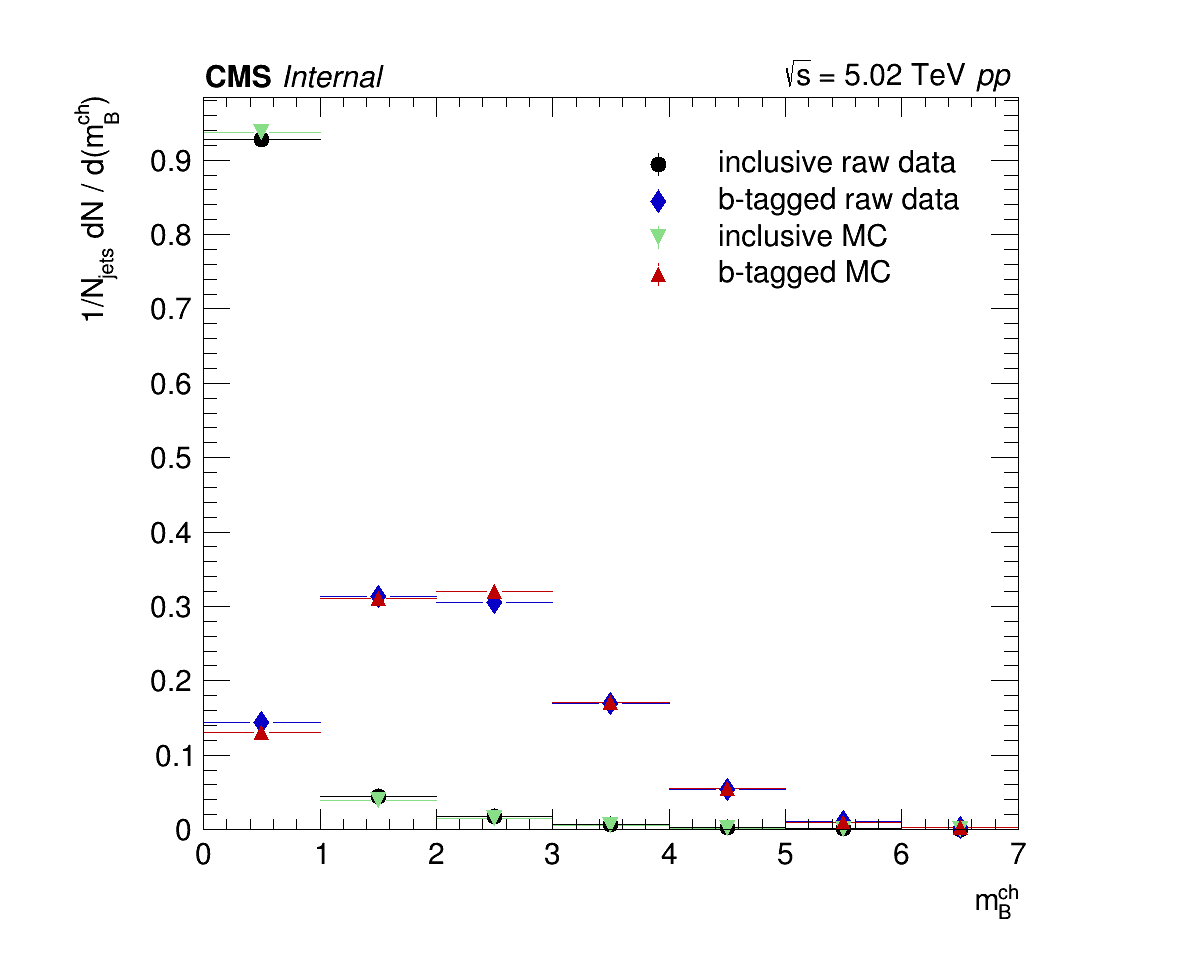
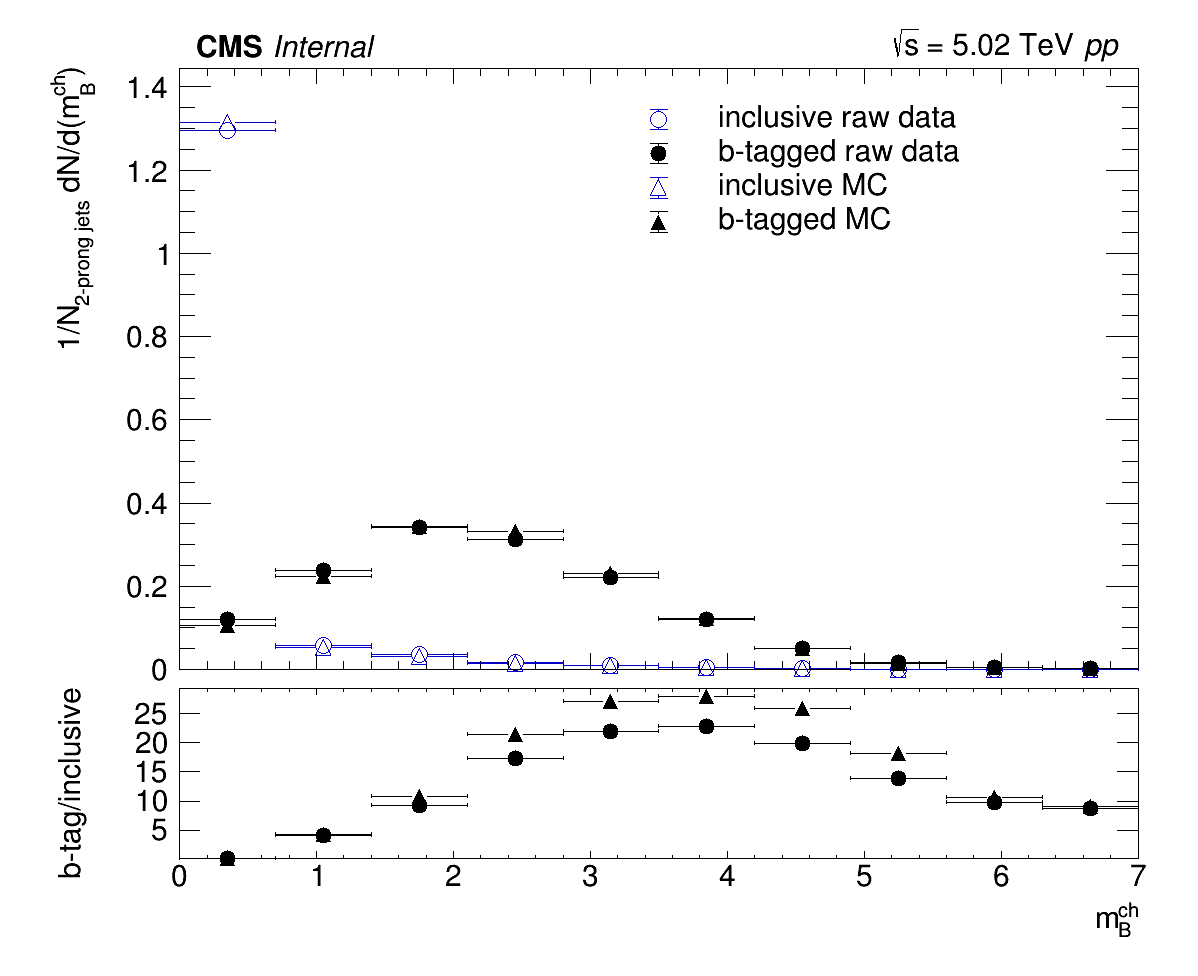
update raw data colors + normalization of rg

diff --git a/myMacros/C106X/template_fit/draw_raw_poster.C b/myMacros/C106X/template_fit/draw_raw_poster.C
@@ -85,6 +85,12 @@ void draw_raw_poster()
     TH1D *h_mc_incl_mb = (TH1D *) h_mc_incl->ProjectionY("h_mc_incl_mb", 1, nbins_rg, 1, nbins_pt);
     TH1D *h_mc_incl_pt = (TH1D *) h_mc_incl->ProjectionZ("h_mc_incl_pt", 1, nbins_rg, 1, nbins_mb);
 
+    // Get choose bin range in rg
+    for (auto h : {h_data_btag_rg, h_data_incl_rg,
+                   h_mc_btag_rg, h_mc_incl_rg}) {
+                    h->GetXaxis()->SetRange(2, 7);
+                   }
+
     // Normalize histograms
     for (auto h : {h_data_btag_rg, h_data_btag_mb, h_data_btag_pt,
                    h_data_incl_rg, h_data_incl_mb, h_data_incl_pt,
@@ -104,37 +110,43 @@ void draw_raw_poster()
     // Format + draw histograms 
     THStack *h_rg = new THStack("h_rg", "");
     h_rg->SetTitle("; ln(0.4/R_{g}); 1/N_{jets} dN / d(ln(0.4/R_{g}))");
-    h_rg->SetMaximum(0.5);
+    // h_rg->SetMaximum(0.5);
 
-    TLegend *leg_rg = new TLegend(0.5, 0.7, 0.95, 0.9); 
+    TLegend *leg_rg = new TLegend(0.5, 0.65, 0.95, 0.85); 
     leg_rg->SetFillStyle(0);
 
     THStack *h_mb = new THStack("h_mb", "");
     h_mb->SetTitle("; m_{B}^{ch}; 1/N_{jets} dN / d(m_{B}^{ch})");
 
-    TLegend *leg_mb = new TLegend(0.5, 0.7, 0.9, 0.85); 
+    TLegend *leg_mb = new TLegend(0.5, 0.65, 0.9, 0.85); 
     leg_mb->SetFillStyle(0);
 
     THStack *h_pt = new THStack("h_pt", "");
     h_pt->SetTitle("; p_{T}^{jet}; 1/N_{jets} dN / d(p_{T}^{jet})");
 
-    TLegend *leg_pt = new TLegend(0.5, 0.7, 0.9, 0.85); 
+    TLegend *leg_pt = new TLegend(0.5, 0.65, 0.9, 0.85); 
     leg_pt->SetFillStyle(0);
 
     TCanvas *c_rg = new TCanvas("c_rg", "", 1200, 1000);
+    TPad *pad1_rg = new TPad("pad1_rg", "", 0., 0., 1., 0.3);
+    TPad *pad2_rg = new TPad("pad2_rg", "", 0., 0.3, 1., 1.);
 
     TCanvas *c_mb = new TCanvas("c_mb", "", 1200, 1000);
+    TPad *pad1_mb = new TPad("pad1_mb", "", 0., 0., 1., 0.3);
+    TPad *pad2_mb = new TPad("pad2_mb", "", 0., 0.3, 1., 1.);
 
     TCanvas *c_pt = new TCanvas("c_pt", "", 1200, 1000);
+    TPad *pad1_pt = new TPad("pad1_pt", "", 0., 0., 1., 0.3);
+    TPad *pad2_pt = new TPad("pad2_pt", "", 0., 0.3, 1., 1.);
 
     // Make decorations
-    TPaveText *info_top_left = new TPaveText(-0.4, 0.505, 0.05, 0.525, "nb ndc");
+    TPaveText *info_top_left = new TPaveText(0., 1., 0.4, 1.1, "nb ndc");
     info_top_left->SetTextSize(font_size);
     info_top_left->SetFillStyle(0);
     info_top_left->SetLineWidth(0);
     info_top_left->AddText("#bf{CMS} #it{Internal}");
 
-    TPaveText *info_top_right = new TPaveText(1., 0.505, 1.6, 0.525, "nb ndc");
+    TPaveText *info_top_right = new TPaveText(1.3, 1., 1.8, 1.1, "nb ndc");
     info_top_right->SetTextSize(font_size);
     info_top_right->SetFillStyle(0);
     info_top_right->SetLineWidth(0);
@@ -157,45 +169,124 @@ void draw_raw_poster()
     std::vector<TH1D *> mc_btag_hists = {h_mc_btag_rg, h_mc_btag_mb, h_mc_btag_pt};
     std::vector<TH1D *> mc_incl_hists = {h_mc_incl_rg, h_mc_incl_mb, h_mc_incl_pt};
     std::vector<TCanvas *> canvases = {c_rg, c_mb, c_pt};
+    std::vector<TPad *> pads1 = {pad1_rg, pad1_mb, pad1_pt};
+    std::vector<TPad *> pads2 = {pad2_rg, pad2_mb, pad2_pt};
+    std::vector<TString> xtitles = {"ln(0.4/R_{g})", "m_{B}^{ch}", "p_{T}^{jet}"};
 
     for (size_t i = 0; i < stacks.size(); i++) {
-        data_incl_hists[i]->SetMarkerStyle(kFullCircle);
+        data_incl_hists[i]->SetMarkerStyle(kOpenCircle);
         data_incl_hists[i]->SetMarkerSize(2);
-        data_incl_hists[i]->SetMarkerColor(kBlack);
-        data_incl_hists[i]->SetLineColor(kBlack);
+        data_incl_hists[i]->SetMarkerColor(mykBlue);
+        data_incl_hists[i]->SetLineColor(mykBlue);
         stacks[i]->Add(data_incl_hists[i], "pe");
         legends[i]->AddEntry(data_incl_hists[i], "inclusive raw data", "pe");
 
-        data_btag_hists[i]->SetMarkerStyle(kFullDiamond);
-        data_btag_hists[i]->SetMarkerSize(3);
-        data_btag_hists[i]->SetMarkerColor(mykBlue);
-        data_btag_hists[i]->SetLineColor(mykBlue);
+        // data_btag_hists[i]->SetMarkerStyle(kFullDiamond);
+        // data_btag_hists[i]->SetMarkerSize(3);
+        // data_btag_hists[i]->SetMarkerColor(mykBlue);
+        // data_btag_hists[i]->SetLineColor(mykBlue);
+        data_btag_hists[i]->SetMarkerStyle(kFullCircle);
+        data_btag_hists[i]->SetMarkerSize(2);
+        data_btag_hists[i]->SetMarkerColor(kBlack);
+        data_btag_hists[i]->SetLineColor(kBlack);
         stacks[i]->Add(data_btag_hists[i], "pe");
         legends[i]->AddEntry(data_btag_hists[i], "b-tagged raw data", "pe");
 
-        mc_incl_hists[i]->SetMarkerStyle(kFullTriangleDown);
+        mc_incl_hists[i]->SetMarkerStyle(kOpenTriangleUp);
         mc_incl_hists[i]->SetMarkerSize(2);
-        mc_incl_hists[i]->SetMarkerColor(mykGreenLight);
-        mc_incl_hists[i]->SetLineColor(mykGreenLight);
+        mc_incl_hists[i]->SetMarkerColor(mykBlue);
+        mc_incl_hists[i]->SetLineColor(mykBlue);
         stacks[i]->Add(mc_incl_hists[i], "pe");
         legends[i]->AddEntry(mc_incl_hists[i], "inclusive MC", "pe");
 
         mc_btag_hists[i]->SetMarkerStyle(kFullTriangleUp);
         mc_btag_hists[i]->SetMarkerSize(2);
-        mc_btag_hists[i]->SetMarkerColor(mykRed);
-        mc_btag_hists[i]->SetLineColor(mykRed);
+        mc_btag_hists[i]->SetMarkerColor(kBlack);
+        mc_btag_hists[i]->SetLineColor(kBlack);
         stacks[i]->Add(mc_btag_hists[i], "pe");
         legends[i]->AddEntry(mc_btag_hists[i], "b-tagged MC", "pe");
 
+        // Find maximum for plotting 
+        double ymax = 0.;
+        for (auto h : {data_incl_hists[i], data_btag_hists[i],
+                       mc_incl_hists[i], mc_btag_hists[i]}) {
+            double hmax = h->GetMaximum();
+            if (hmax > ymax) ymax = hmax;
+        }
+
+        // RATIO PLOTS
+        THStack *h_ratio = new THStack("h_ratio", "");
+        std::string xtitle = data_btag_hists[i]->GetXaxis()->GetTitle();
+        h_ratio->SetTitle(Form("; %s; b-tagged / inclusive", xtitle.c_str()));
+
+        TH1D *h_data_ratio = (TH1D *) data_btag_hists[i]->Clone("h_data_ratio");
+        h_data_ratio->Divide(data_incl_hists[i]);
+        h_data_ratio->SetLineColor(data_btag_hists[i]->GetLineColor());
+        h_ratio->Add(h_data_ratio, "pe1");
+
+        TH1D *h_mc_ratio = (TH1D *) mc_btag_hists[i]->Clone("h_mc_ratio");
+        h_mc_ratio->Divide(mc_incl_hists[i]);
+        h_mc_ratio->SetLineColor(mc_btag_hists[i]->GetLineColor());
+        h_ratio->Add(h_mc_ratio, "pe1");
+
+        // Find maximum for plotting 
+        double ymin_ratio = 1.;
+        double ymax_ratio = 0.;
+        for (auto h : {h_data_ratio, h_mc_ratio}) {
+            double hmax = h->GetMaximum();
+            double hmin = h->GetMinimum();
+            if (hmax > ymax_ratio) ymax_ratio = hmax;
+            if (hmin < ymin_ratio) ymin_ratio = hmin;
+        }
+
+        pads2[i]->SetBottomMargin(0.02);
+        pads1[i]->SetTopMargin(0.02);
+        pads1[i]->SetBottomMargin(0.4);
+
+        pads1[i]->SetRightMargin(0.05);
+        pads2[i]->SetRightMargin(0.05);
+
+        pads1[i]->SetLeftMargin(0.15);
+        pads2[i]->SetLeftMargin(0.15);
         
-        canvases[i]->cd();
-        stacks[i]->Draw("nostack");
+        pads2[i]->cd();
+        // stacks[i]->Draw("nostack");
+        double xLabelSize = data_incl_hists[i]->GetXaxis()->GetLabelSize();
+        for (auto h : {data_incl_hists[i], data_btag_hists[i],
+                       mc_incl_hists[i], mc_btag_hists[i]}) {
+            h->Draw("pe1 same");
+
+            h->GetXaxis()->SetLabelSize(0.);
+            
+            TString ytitle = "1/N_{2-prong jets} dN/d(" + xtitles[i] + ")";
+            h->GetYaxis()->SetTitle(ytitle);
+            h->GetYaxis()->SetRangeUser(0., 1.1 * ymax);
+
+        }
         legends[i]->Draw();
         info_top_left->Draw();
         info_top_right->Draw();
-        // info_jets->Draw();
-        canvases[i]->Draw();   
+        
 
+        pads1[i]->cd();
+        for (auto h : {h_data_ratio, h_mc_ratio}) {
+            h->Draw("pe1 same");
+
+            h->GetXaxis()->SetLabelSize(xLabelSize);
+            h->GetXaxis()->SetTitle(xtitles[i]);
+            h->GetXaxis()->SetTitleOffset(4.);
+
+            h->GetYaxis()->SetNdivisions(6);
+            h->GetYaxis()->SetRangeUser(0.95 * ymin_ratio, 1.05 * ymax_ratio);
+            h->GetYaxis()->SetTitle("b-tag/inclusive");
+        }
+        // h_ratio->Draw("nostack");
+
+
+        canvases[i]->cd();
+        
+        pads2[i]->Draw();
+        pads1[i]->Draw();
         TString canvas_name = "./plots/raw_" + TString(canvases[i]->GetName()) + ".png";
         canvases[i]->Print(canvas_name);
     }

diff --git a/myMacros/C106X/template_fit/create_histograms_fast.C b/myMacros/C106X/template_fit/create_histograms_fast.C
@@ -3,8 +3,16 @@
 
 void create_histograms_fast()
 {
-    TString sample = "dijet";
-    TString label = "aggrTMVA_withHLT_v2_inclusive";
+    // TString sample = "dijet";
+    // TString label = "aggrTMVA_withHLT_v2";
+    // TString sample = "dijet";
+    // TString label = "aggrTMVA_withHLT_v2_inclusive";
+    // TString sample = "bjet";
+    // TString label = "aggrTMVA_withHLT";
+    // TString sample = "data";
+    // TString label = "aggrTMVA_v2";
+    TString sample = "data";
+    TString label = "aggrTMVA_v2_inclusive";
     TString fin_name = "/data_CMS/cms/kalipoliti/compact_trees/" + sample + "_" + label + "_tree_template_fit.root";   
     TString fout_name = "./histos/" + sample + "_" + label + "_histograms.root";
 
@@ -17,17 +25,17 @@ void create_histograms_fast()
     Double_t weight;
 
     // jet pt bins : no underflow or overflow
-    const Int_t z1bins = 3;
+    const Int_t z1bins = 4;
     Double_t z1min = 60.;
-    Double_t z1max = 120.; 
+    Double_t z1max = 140.; 
 
     // ln(0.4/rg) bins : 1st bin untagged (unphysical)
-    const Int_t x1bins = 5;
-    Double_t x1min = -0.4; // if untagged or kT < cut : ln(R/Rg) = -0.2
-    Double_t x1max = 1.6; 
+    const Int_t x1bins = 9;
+    Double_t x1min = -0.3; // if untagged or kT < cut : ln(R/Rg) = -0.2
+    Double_t x1max = 2.4; 
 
     // mBch bins : 
-    const Int_t y1bins = 7;
+    const Int_t y1bins = 10;
     Double_t y1min = 0.;
     Double_t y1max = 7.;
 
@@ -63,6 +71,18 @@ void create_histograms_fast()
 
         if (!mc) h_training->SetName(hist_name);
 
+        // sum of weights
+        double ntest = 0;
+        double ntrain = 0;
+
+        // sum of squared weights
+        double ntest2 = 0.; 
+        double ntrain2 = 0.;
+
+        // sum of entries 
+        Long64_t nent_test = 0;
+        Long64_t nent_train = 0;
+
         Long64_t nentries = tree->GetEntries();
         for (Long64_t ient = 0; ient < nentries; ient++) {
             tree->GetEntry(ient);
@@ -72,19 +92,53 @@ void create_histograms_fast()
             // Check for mb
             if (mb < 0. || mb > 7.) continue;
 
+            bool in_range = (jtpt >= z1min && jtpt < z1max) && (logrg >= x1min && logrg < x1max);
+
             if (mc) {
                 // weight = 1.; //debug
-                if (ient > (nentries / 2))
+                if (weight > 0.2) continue;
+                if (ient > (nentries / 2)) {
+                    // templates
                     h_training->Fill(logrg, mb, jtpt, weight);
-                else
+                    if (in_range) {
+                        ntrain += weight;
+                        ntrain2 += weight * weight;
+                        nent_train++;
+                    }
+                    
+                }
+                else {
+                    // pseudo data
+                    // weight = 1.; // debug
                     h_testing->Fill(logrg, mb, jtpt, weight);
+                    if (in_range) {
+                        nent_test++;
+                        ntest += weight;
+                        ntest2 += weight * weight;
+
+                        if (weight > 0.2) {
+                            std::cout << "weight = " << weight << ", jtpt = " << jtpt << std::endl; 
+                        }
+                    }
+                    
+                }
             } else {
                 h_training->Fill(logrg, mb, jtpt);
             }
         } // tree entry loop
         h_training->Write();
         if (mc) h_testing->Write();
+        // std::cout << tree_name 
+        //           << " : ntest = " << ntest << " +- " << std::sqrt(ntest2)
+        //           << ", ntrain = " << ntrain  << " +- " << std::sqrt(ntrain2) 
+        //           << std::endl;
+        // std::cout << tree_name 
+        //           << " : nent_test = " << nent_test 
+        //           << ", nent_train = " << nent_train   
+        //           << std::endl;
     } // tree loop
+
+    
 
     fout->Close();
     delete fout;
